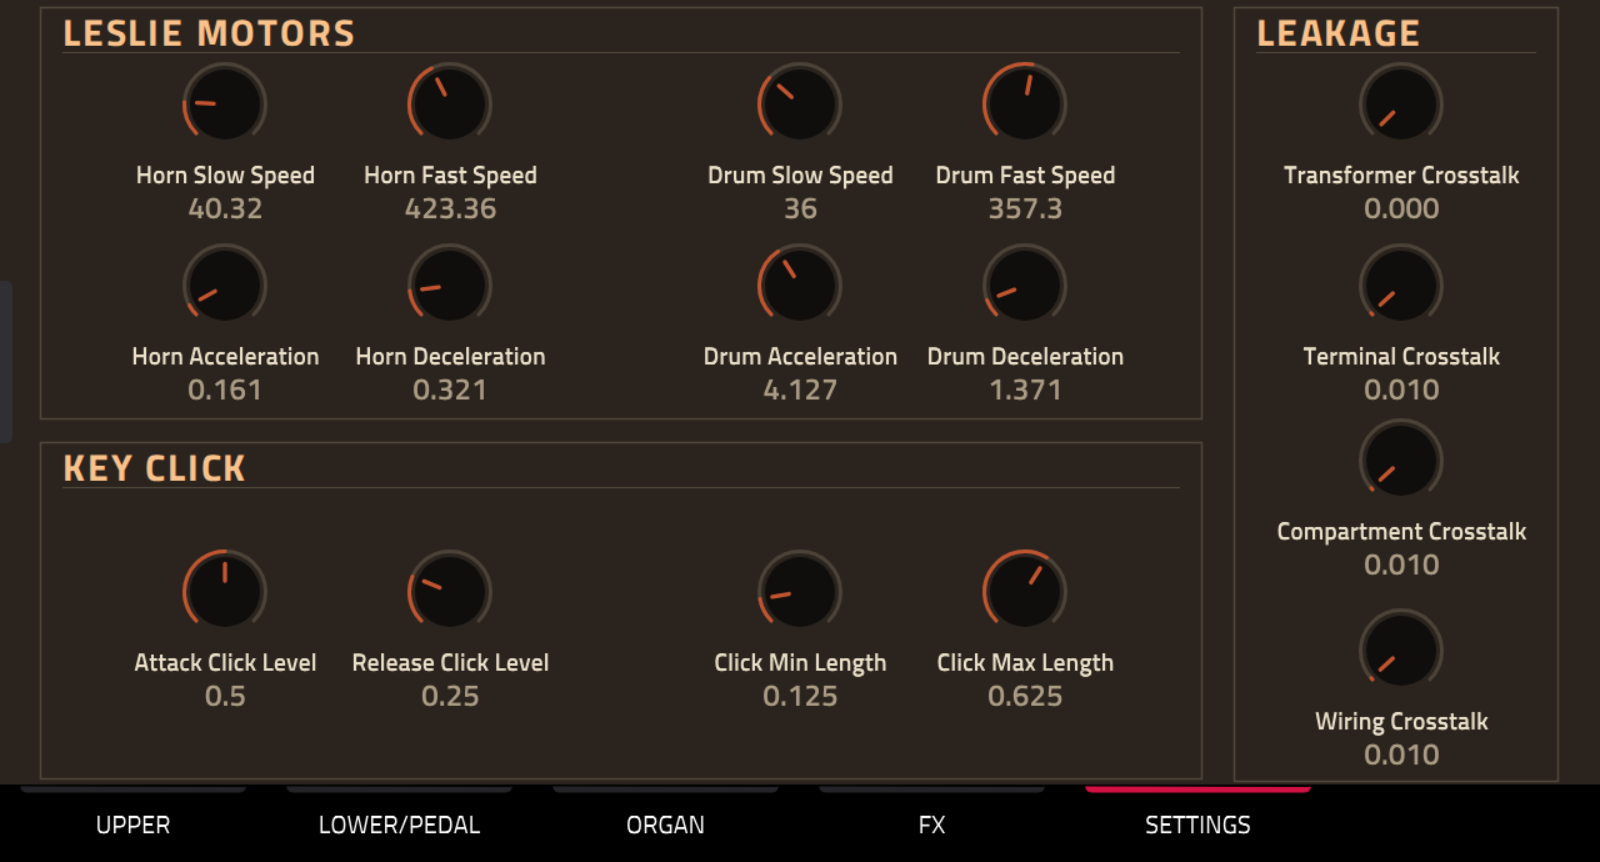
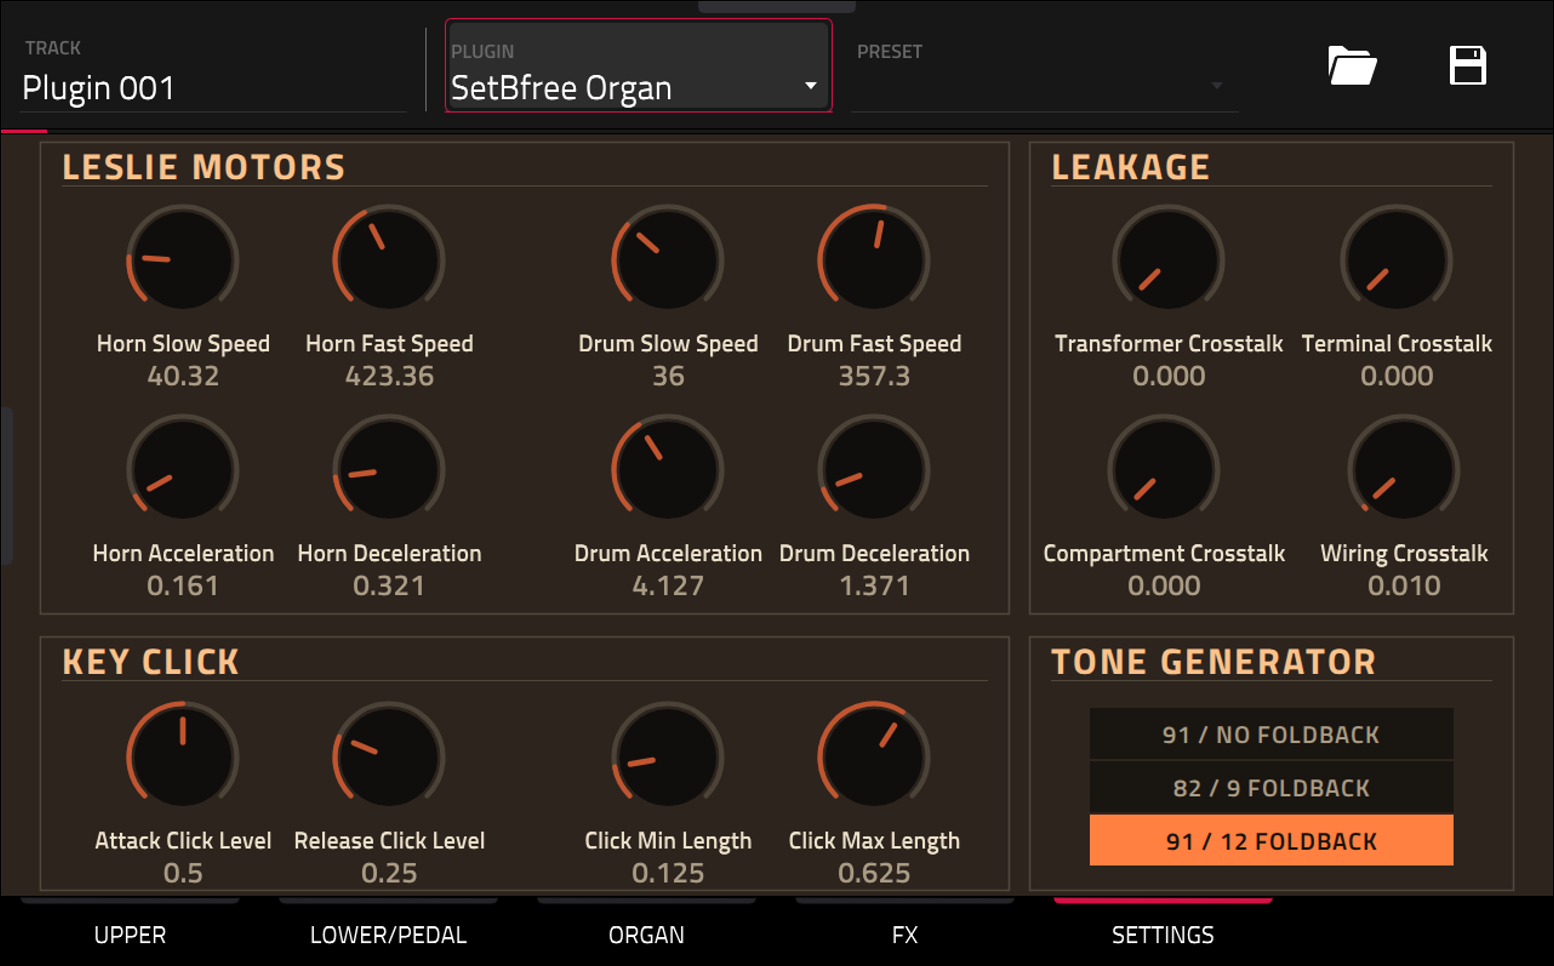
Release SetBfree Organ 0.4.0

Changed region(s): [[0.0, 0.0, 1.0, 0.9954], [0.4633, 0.6334, 0.5251, 0.7239]]

diff --git a/src/setbfree_engine.c b/src/setbfree_engine.c
@@ -19,7 +19,7 @@
 #include "state.h"
 
 #define BLOCK 128
-#define PARAM_COUNT 80
+#define PARAM_COUNT 81
 
 double SampleRateD = 44100.0;
 
@@ -33,7 +33,8 @@ typedef enum { SCALE_RAW, SCALE_DRAWBAR, SCALE_PERCENT, SCALE_TOGGLE,
                SCALE_SOFT_LEVEL, SCALE_PERC_GAIN, SCALE_MANUAL_VIBRATO,
                SCALE_CROSSTALK, SCALE_HORN_SLOW_RPM, SCALE_HORN_FAST_RPM,
                SCALE_DRUM_SLOW_RPM, SCALE_DRUM_FAST_RPM, SCALE_HORN_TIME,
-               SCALE_DRUM_TIME, SCALE_SCANNER_RATE, SCALE_SCANNER_DEPTH } scale_t;
+               SCALE_DRUM_TIME, SCALE_SCANNER_RATE, SCALE_SCANNER_DEPTH,
+               SCALE_TONE_MODEL } scale_t;
 
 typedef struct {
     const char *key;
@@ -78,7 +79,7 @@ static const param_def_t defs[PARAM_COUNT] = {
     {"pedal_1", "pedal.drawbar1", 8, SCALE_DRAWBAR},
 
     {"percussion", "percussion.enable", 0, SCALE_TOGGLE},
-    {"perc_volume", "percussion.volume", 1, SCALE_TOGGLE},
+    {"perc_volume", "percussion.volume", 0, SCALE_TOGGLE},
     {"perc_decay", "percussion.decay", 0, SCALE_TOGGLE},
     {"perc_harmonic", "percussion.harmonic", 1, SCALE_TOGGLE},
     {"vibrato", "vibrato.knob", 0, SCALE_VIBRATO},
@@ -87,9 +88,9 @@ static const param_def_t defs[PARAM_COUNT] = {
     {"swell", "swellpedal1", 100, SCALE_PERCENT},
     {"rotary", "rotary.speed-preset", 1, SCALE_ROTARY},
     {"overdrive", "overdrive.enable", 0, SCALE_TOGGLE},
-    {"drive_character", "overdrive.character", 47, SCALE_PERCENT},
-    {"drive_input", "overdrive.inputgain", 16, SCALE_PERCENT},
-    {"drive_output", "overdrive.outputgain", 47, SCALE_PERCENT},
+    {"drive_character", "overdrive.character", 44, SCALE_PERCENT},
+    {"drive_input", "overdrive.inputgain", 14, SCALE_PERCENT},
+    {"drive_output", "overdrive.outputgain", 30, SCALE_PERCENT},
     {"reverb", "reverb.mix", 10, SCALE_PERCENT},
 
     {"perc_fast_time", NULL, 1.0, SCALE_SECONDS},
@@ -99,9 +100,9 @@ static const param_def_t defs[PARAM_COUNT] = {
     {"perc_gain", NULL, 11.0, SCALE_PERC_GAIN},
     {"vibrato_upper_mode", NULL, 3, SCALE_MANUAL_VIBRATO},
     {"vibrato_lower_mode", NULL, 3, SCALE_MANUAL_VIBRATO},
-    {"compartment_crosstalk", NULL, 0.01, SCALE_CROSSTALK},
+    {"compartment_crosstalk", NULL, 0.0, SCALE_CROSSTALK},
     {"transformer_crosstalk", NULL, 0.0, SCALE_CROSSTALK},
-    {"terminal_crosstalk", NULL, 0.01, SCALE_CROSSTALK},
+    {"terminal_crosstalk", NULL, 0.0, SCALE_CROSSTALK},
     {"wiring_crosstalk", NULL, 0.01, SCALE_CROSSTALK},
 
     {"horn_slow_speed", NULL, 40.32, SCALE_HORN_SLOW_RPM},
@@ -126,10 +127,11 @@ static const param_def_t defs[PARAM_COUNT] = {
     {"pedal_level", NULL, 60, SCALE_PERCENT},
     {"reverb_input", NULL, 10, SCALE_PERCENT},
     {"reverb_output", NULL, 100, SCALE_RAW},
-    {"drive_bias", "xov.ctl_biased", 53.47, SCALE_PERCENT},
-    {"drive_feedback", "xov.ctl_biased_gfb", 62.14, SCALE_PERCENT},
-    {"drive_sag", "xov.ctl_sagtobias", 18.8, SCALE_PERCENT},
+    {"drive_bias", "xov.ctl_biased", 100, SCALE_PERCENT},
+    {"drive_feedback", "xov.ctl_biased_gfb", 26, SCALE_PERCENT},
+    {"drive_sag", "xov.ctl_sagtobias", 17, SCALE_PERCENT},
     {"sustain_enable", NULL, 0, SCALE_TOGGLE},
+    {"tone_generator_model", NULL, 2, SCALE_TONE_MODEL},
 };
 
 enum {
@@ -148,7 +150,7 @@ enum {
     P_SCANNER_RATE, P_SCANNER_V1_DEPTH, P_SCANNER_V2_DEPTH,
     P_SCANNER_V3_DEPTH, P_UPPER_LEVEL, P_LOWER_LEVEL, P_PEDAL_LEVEL,
     P_REVERB_INPUT, P_REVERB_OUTPUT, P_DRIVE_BIAS, P_DRIVE_FEEDBACK,
-    P_DRIVE_SAG, P_SUSTAIN_ENABLE
+    P_DRIVE_SAG, P_SUSTAIN_ENABLE, P_TONE_GENERATOR_MODEL
 };
 
 typedef struct {
@@ -285,6 +287,12 @@ static void apply_param(organ_t *o, int i) {
          * rebuild, rather than allocating a complete organ on every pixel. */
         o->rebuild_delay = 8;
         return;
+    case P_TONE_GENERATOR_MODEL:
+        /* The tonewheel allocation and foldback tables are created during
+         * initToneGenerator(). Coalesce selector/Q-Link motion into one
+         * rebuild, just like the startup-only crosstalk matrix controls. */
+        o->rebuild_delay = 8;
+        return;
     case P_HORN_SLOW_SPEED:
         o->core.whirl->hornRPMslow = (float)o->value[i];
         computeRotationSpeeds(o->core.whirl);
@@ -410,6 +418,8 @@ static int init_core(organ_t *o, b_instance *core) {
     core->synth->defaultTransformerCrosstalk = o->value[P_TRANSFORMER_CROSSTALK];
     core->synth->defaultTerminalStripCrosstalk = o->value[P_TERMINAL_CROSSTALK];
     core->synth->defaultWiringCrosstalk = o->value[P_WIRING_CROSSTALK];
+    setToneGeneratorModel(core->synth,
+        clampi((int)lround(o->value[P_TONE_GENERATOR_MODEL]), 0, 2));
     initControllerTable(core->midicfg);
     midiPrimeControllerMapping(core->midicfg);
     initToneGenerator(core->synth, core->midicfg);
@@ -431,7 +441,8 @@ static int rebuild_core(organ_t *o) {
     o->sustain_down = 0;
     memset(o->sustained_notes, 0, sizeof(o->sustained_notes));
     for (int i = 0; i < PARAM_COUNT; ++i)
-        if (i < P_COMPARTMENT_CROSSTALK || i > P_WIRING_CROSSTALK) apply_param(o, i);
+        if ((i < P_COMPARTMENT_CROSSTALK || i > P_WIRING_CROSSTALK) &&
+            i != P_TONE_GENERATOR_MODEL) apply_param(o, i);
     midi_panic(&old);
     free_core(&old);
     return 1;
@@ -512,9 +523,12 @@ static void set_one(organ_t *o, const char *key, const char *text) {
     else if (defs[i].scale == SCALE_DRUM_TIME) v = clampd(v, 0.5, 10.0);
     else if (defs[i].scale == SCALE_SCANNER_RATE) v = clampd(v, 4.0, 22.0);
     else if (defs[i].scale == SCALE_SCANNER_DEPTH) v = clampd(v, 0.0, 12.0);
+    else if (defs[i].scale == SCALE_TONE_MODEL) v = clampi((int)lround(v), 0, 2);
     if (i == P_REVERB_OUTPUT) v = clampd(v, 0.0, 200.0);
+    int same_tone_model = i == P_TONE_GENERATOR_MODEL &&
+        (int)lround(o->value[i]) == (int)lround(v);
     o->value[i] = v;
-    apply_param(o, i);
+    if (!same_tone_model) apply_param(o, i);
     /* The published 0.1.12 project state contains the three original
      * vibrato parameters. Mirror them to the new manual selectors while
      * loading old projects; new state later overrides these compatibility

diff --git a/src/dsp/src/tonegen.c b/src/dsp/src/tonegen.c
@@ -834,6 +834,29 @@ findTransformerNeighbours (int w, int* ep, int* wp)
 }
 
 /**
+ * Convert the C-based terminal numbering used by the default wiring tables
+ * to the physical wheel number used by the selected tone-generator model.
+ *
+ * The 82-wheel generator starts on A: its terminal 10 is physical wheel 1
+ * and terminal 91 is physical wheel 82.  Keeping the terminal number as the
+ * wheel number transposes this model up by nine semitones and addresses nine
+ * oscillators that do not exist.
+ */
+static short
+defaultWheelNumber (const struct b_tonegen* t, int terminal)
+{
+	if (t->tgVariant == TG_82FB09) {
+		if ((terminal < 10) || (91 < terminal))
+			return 0;
+		return (short)(terminal - 9);
+	}
+
+	if ((terminal < 1) || (NOF_WHEELS < terminal))
+		return 0;
+	return (short)terminal;
+}
+
+/**
  * This routine applies default models to the configuration.
  */
 static void
@@ -846,14 +869,18 @@ applyDefaultConfiguration (struct b_tonegen* t)
 
 	for (i = 1; i <= NOF_WHEELS; i++) {
 		if (t->terminalMix[i] == NULL) {
+			short wheel = defaultWheelNumber (t, i);
+			if (wheel == 0)
+				continue;
 			lep                      = newConfigListElement (t);
-			LE_WHEEL_NUMBER_OF (lep) = (short)i;
+			LE_WHEEL_NUMBER_OF (lep) = wheel;
 			LE_WHEEL_LEVEL_OF (lep)  = 1.0 - t->defaultCompartmentCrosstalk;
 			appendListElement (&(t->terminalMix[i]), lep);
 			if (0.0 < t->defaultCompartmentCrosstalk) {
-				if (0 < wheelPairs[i]) {
+				wheel = defaultWheelNumber (t, wheelPairs[i]);
+				if (0 < wheel) {
 					lep                      = newConfigListElement (t);
-					LE_WHEEL_NUMBER_OF (lep) = wheelPairs[i];
+					LE_WHEEL_NUMBER_OF (lep) = wheel;
 					LE_WHEEL_LEVEL_OF (lep)  = t->defaultCompartmentCrosstalk;
 					appendListElement (&(t->terminalMix[i]), lep);
 				}
@@ -876,6 +903,7 @@ applyDefaultConfiguration (struct b_tonegen* t)
 
 			findTransformerNeighbours (i, &east, &west);
 
+			east = defaultWheelNumber (t, east);
 			if (0 < east) {
 				lep                      = newConfigListElement (t);
 				LE_WHEEL_NUMBER_OF (lep) = (short)east;
@@ -883,6 +911,7 @@ applyDefaultConfiguration (struct b_tonegen* t)
 				appendListElement (&(t->terminalMix[i]), lep);
 			}
 
+			west = defaultWheelNumber (t, west);
 			if (0 < west) {
 				lep                      = newConfigListElement (t);
 				LE_WHEEL_NUMBER_OF (lep) = (short)west;
@@ -897,8 +926,11 @@ applyDefaultConfiguration (struct b_tonegen* t)
 		for (i = 1; i <= NOF_WHEELS; i++) {
 			int east = 0;
 			int west = 0;
+			if (defaultWheelNumber (t, i) == 0)
+				continue;
 			findEastWestNeighbours (terminalStrip, i, &east, &west);
 
+			east = defaultWheelNumber (t, east);
 			if (0 < east) {
 				lep                      = newConfigListElement (t);
 				LE_WHEEL_NUMBER_OF (lep) = (short)east;
@@ -906,6 +938,7 @@ applyDefaultConfiguration (struct b_tonegen* t)
 				appendListElement (&(t->terminalMix[i]), lep);
 			}
 
+			west = defaultWheelNumber (t, west);
 			if (0 < west) {
 				lep                      = newConfigListElement (t);
 				LE_WHEEL_NUMBER_OF (lep) = (short)west;

diff --git a/README.md b/README.md
@@ -1,13 +1,13 @@
-# setBfree Organ for MPC OS
+# SetBfree Organ for MPC OS
 
 A native VST2 port of the [setBfree](https://github.com/pantherb/setBfree)
 tonewheel organ engine for first-generation Akai MPC standalone devices and
 Force. It runs in MPC's plugin host and has a native touchscreen skin. Release
-0.3.1 is verified on Force running MPC OS 3.10.1.
+0.4.0 is verified on Force running MPC OS 3.10.1.
 
-![setBfree Organ running on Akai Force](docs/images/setbfree-organ.png)
+![SetBfree Organ running on Akai Force](docs/images/setbfree-organ.png)
 
-The current release is **0.3.1**. It provides:
+The current release is **0.4.0**. It provides:
 
 - upper and lower drawbars with traditional colour groups, plus 16', 8' and 4'
   pedal controls;
@@ -17,6 +17,8 @@ The current release is **0.3.1**. It provides:
 - percussion, per-manual vibrato/chorus, scanner, swell and manual-level
   controls;
 - editable overdrive, reverb, Leslie motor, key-click and leakage parameters;
+- switchable 91-wheel no-foldback, 82-wheel/9-note-foldback and
+  91-wheel/12-note-foldback tone-generator models;
 - switchable sustain-pedal or Leslie-speed pedal operation;
 - one-keyboard operation with optional upper/lower or upper/lower/pedal splits;
 - VST chunk state for project save and reload.
@@ -48,16 +50,17 @@ SETTINGS page and are intended for sound setup rather than performance moves.
 Download the package for the device from the GitHub release and follow its
 included `INSTALL.md`:
 
-- `setBfree-Organ-0.3.1-mpc-armv7.zip`: scripted installer for Force and
+- `SetBfree-Organ-0.4.0-mpc-armv7.zip`: scripted installer for Force and
   first-generation MPCs;
-- `setBfree-Organ-0.3.1-mpc-sdk.zip`: MPC OS 3.10.1 folder format for Force
+- `SetBfree-Organ-0.4.0-mpc-sdk.zip`: MPC OS 3.10.1 folder format for Force
   and first-generation MPCs. Unzip it and copy the plugin folder into a drive's
   `VST2 Plugins` directory.
 
 The SDK-format package needs no root access on MPC OS 3.10.1. The scripted
 ARMv7 installer also supports the earlier `Synths` layout and restarts the MPC
-application. Release 0.3.1 keeps the same plugin UID, parameter indices and
-state format as 0.3.0, so saved projects remain compatible. Gen2 is not a
+application. Release 0.4.0 keeps the same plugin UID, existing parameter
+indices and state format as 0.3.1; its new parameter is appended, so saved
+projects remain compatible. Gen2 is not a
 supported release target because no build has been verified on physical Gen2
 hardware.
 
@@ -94,7 +97,7 @@ and restarts the MPC application without replacing the plugin binary. Set
 `FORCE_HOST`, pass `-ForceHost` to the PowerShell script, or put the device
 address in a local `.force-host` file.
 
-The 0.3.1 ARMv7 binary targets ARM hard-float with glibc 2.31 compatibility and
+The 0.4.0 ARMv7 binary targets ARM hard-float with glibc 2.31 compatibility and
 is verified on Force MPC OS 3.10.1.
 
 ## Source and licence

diff --git a/RELEASING.md b/RELEASING.md
@@ -1,6 +1,6 @@
 # Releasing
 
-Release 0.3.1 is built and packaged with the Open MPC porting kit pinned to:
+Release 0.4.0 is built and packaged with the Open MPC porting kit pinned to:
 
 `open-mpc/mpc-vst-plugins@0dc17120cd7e952e95eeecdd820ac9e495a75ee9`
 
@@ -11,9 +11,9 @@ It also produces the MPC OS 3.10.1 SDK-format folder zip.
 
 ## GitHub Actions release
 
-Run the **Release VST** workflow with version `0.3.1`. A dry run builds the
+Run the **Release VST** workflow with version `0.4.0`. A dry run builds the
 artifacts without creating a release; a normal run creates or updates draft tag
-`v0.3.1`.
+`v0.4.0`.
 
 Before publishing the draft:
 
